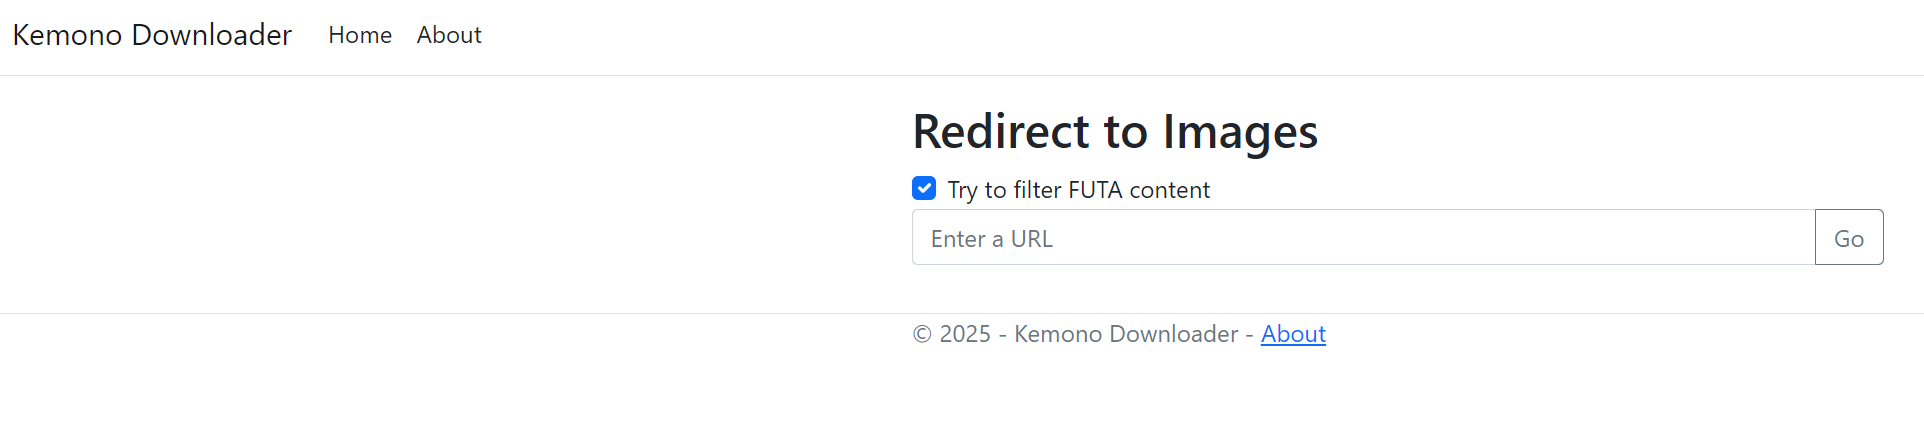
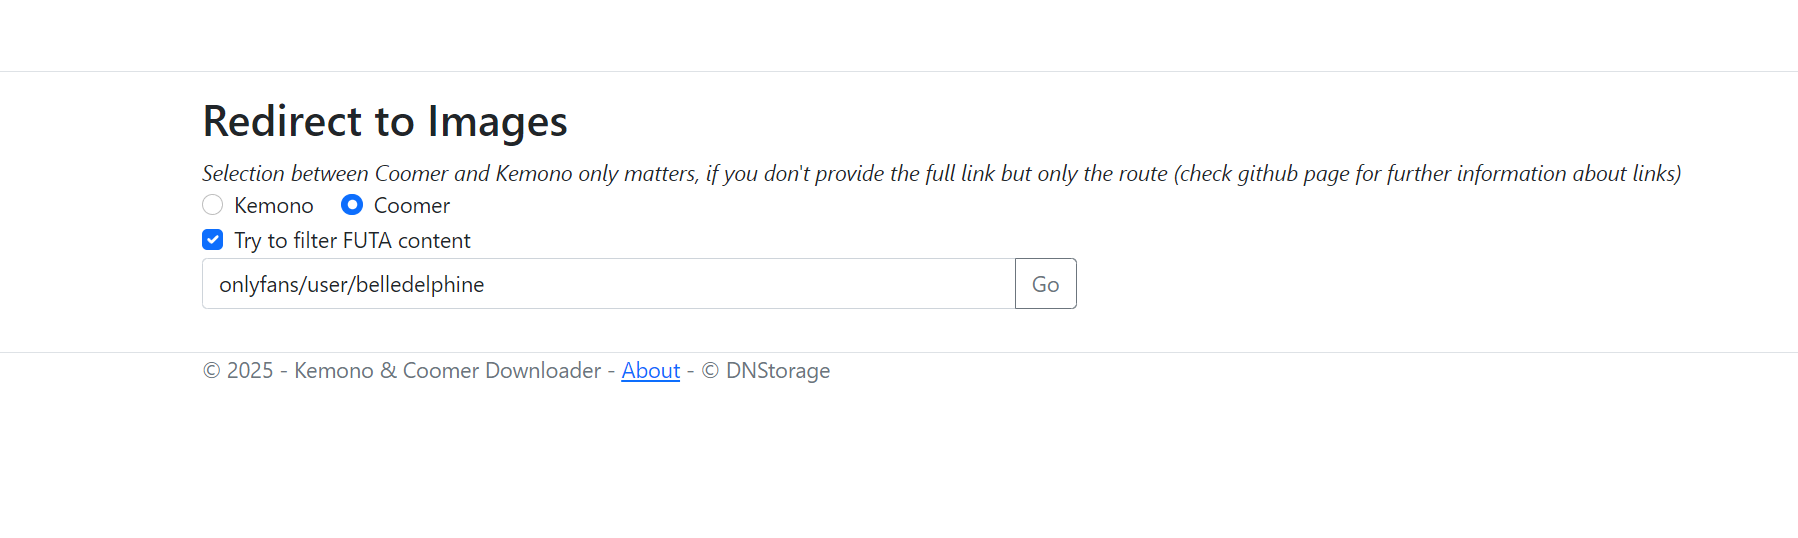
Added styling to radio buttons on main page and added wrong link protection

diff --git a/KEMONO-DOWNLOADER/Controllers/HomeController.cs b/KEMONO-DOWNLOADER/Controllers/HomeController.cs
@@ -99,6 +99,8 @@ namespace KEMONO_DOWNLOADER.Controllers
             List<PagesPostsModel> links = new List<PagesPostsModel>();
             int server = 1;
 
+            if (posts == null || posts.results == null) return NotFound("Artist not found");
+
             foreach (var post in posts.results)
             {
                 if (post.title.Contains("futa", StringComparison.OrdinalIgnoreCase) && request.FilterFuta) continue;
